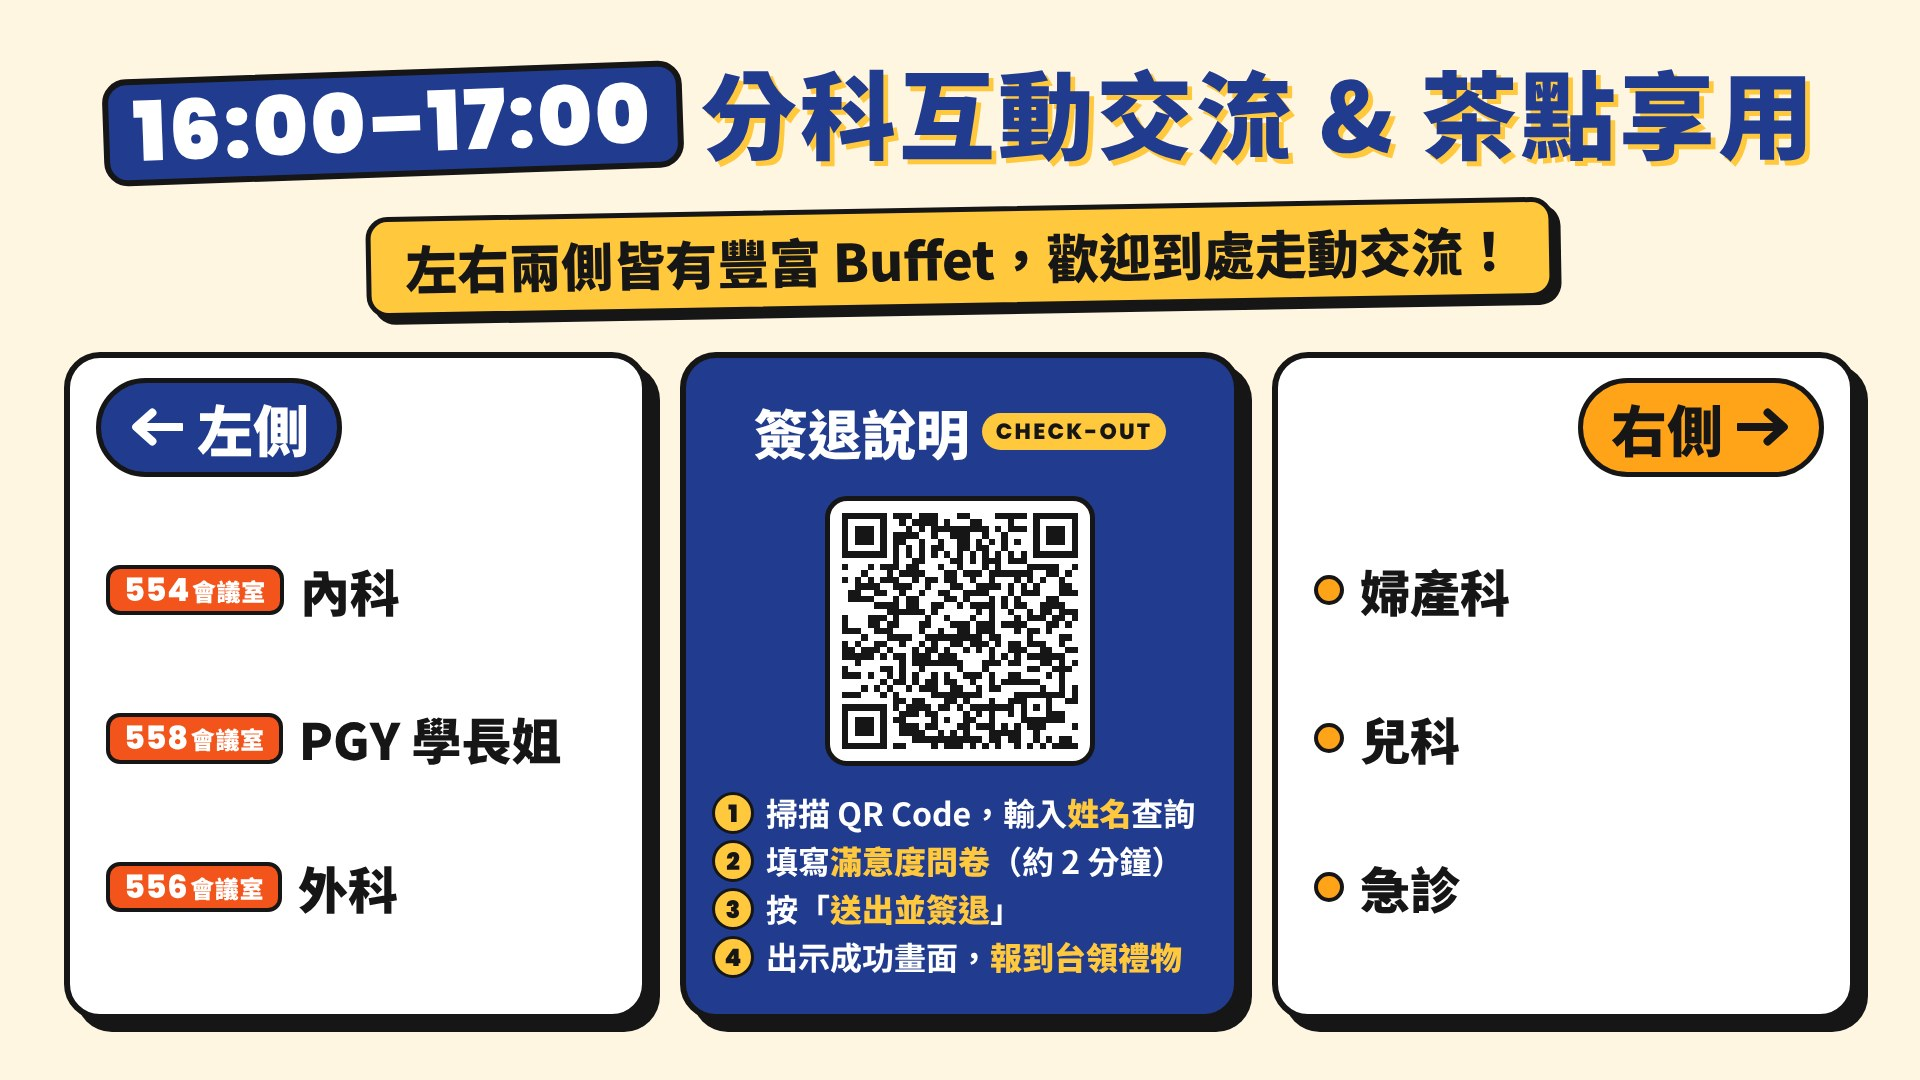
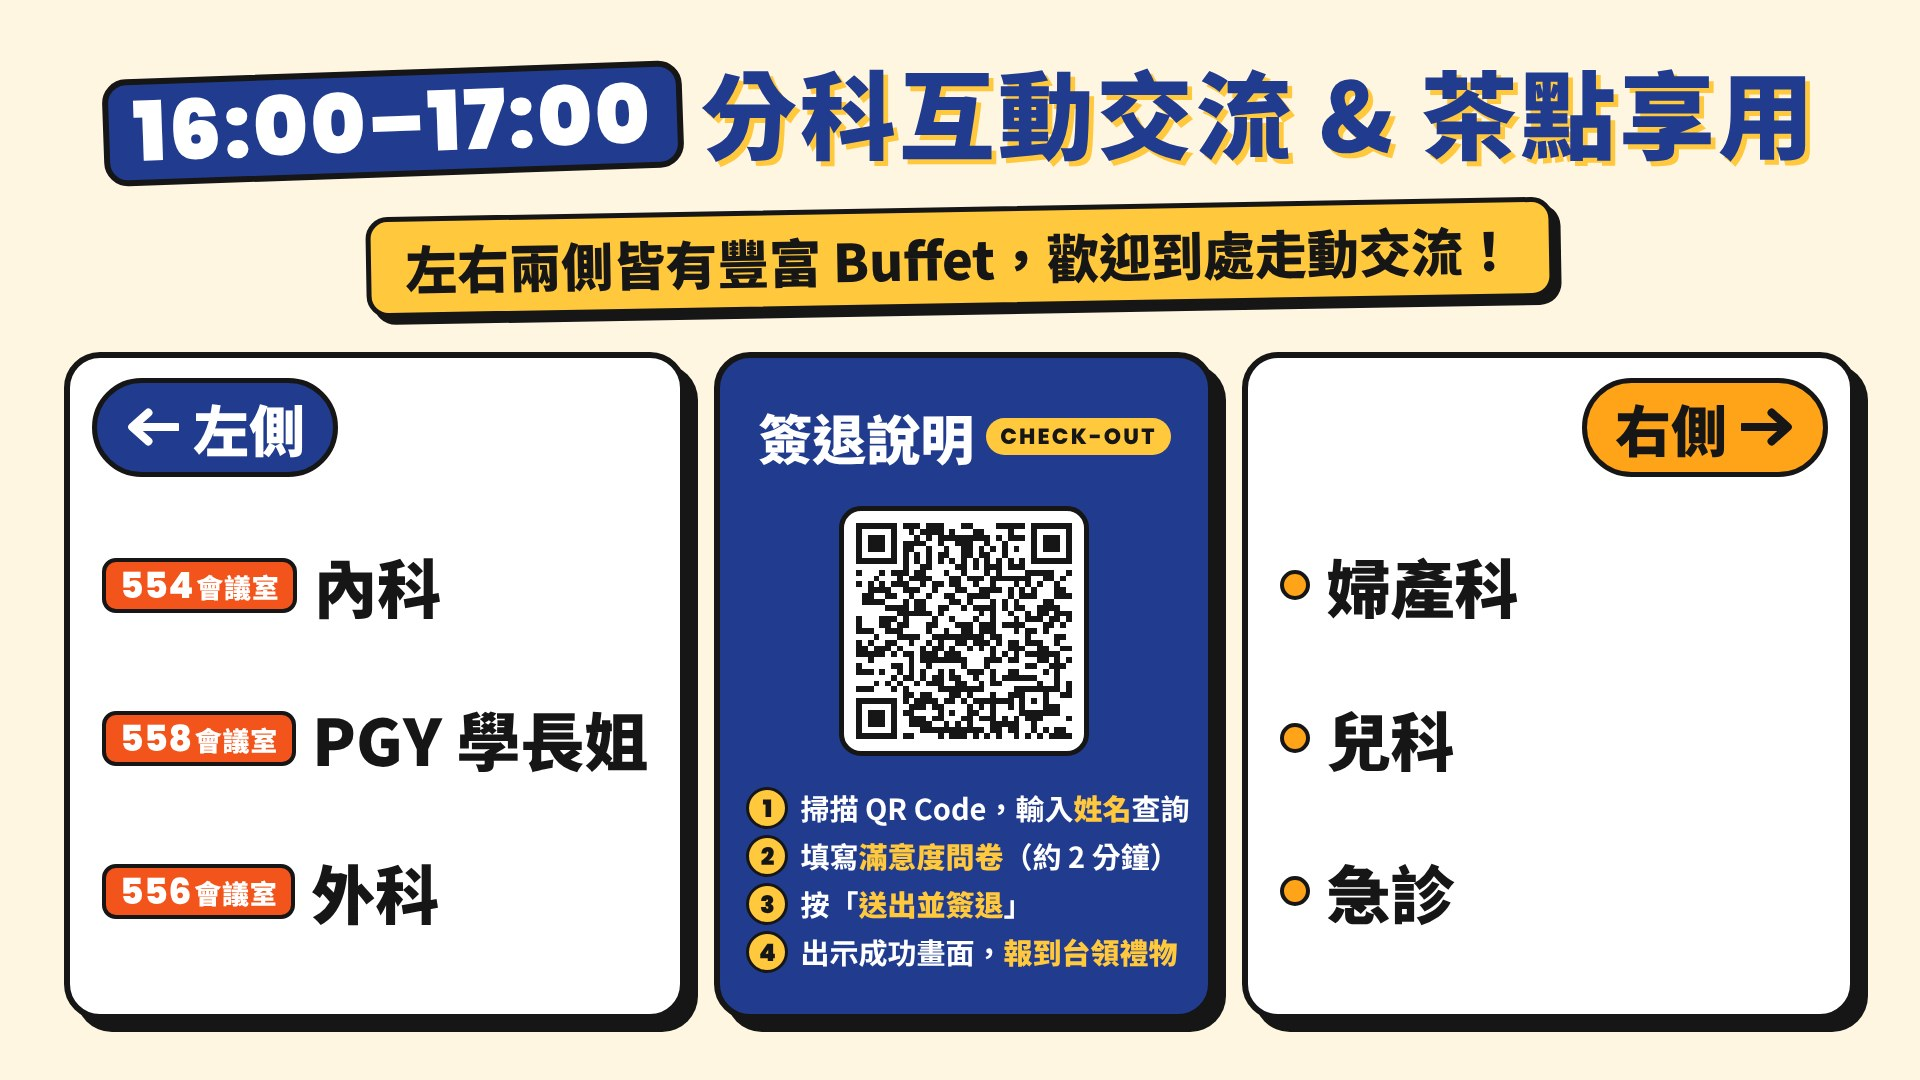
歌詞頁照片：第1張改「歡迎享用」，第3張分科字放大比照第2張
Claude-Session: https://claude.ai/code/session_01HH3Uic7B7GKvdUspcu4Pwt

diff --git a/cmh_musiccc/photos/slides.html b/cmh_musiccc/photos/slides.html
@@ -71,7 +71,7 @@ h1 b{font-family:Poppins;font-weight:900}
 .s3 h1 .time{font-family:Poppins;font-weight:900;color:#fff;background:var(--navy);border:6px solid var(--ink);border-radius:24px;padding:0 24px;text-shadow:none;margin-right:18px;display:inline-block;transform:rotate(-2deg);font-size:.86em}
 .s3 .note{font-size:42px}
 .s3 .sides{gap:30px;padding:0 50px}
-.s3 .side{padding:20px 26px 24px;gap:10px}
+.s3 .side{padding:20px 22px 24px;gap:10px}
 .s3 .side h3{font-size:40px}
 .s3 .room{font-size:50px;gap:16px}
 .s3 .room .no{font-size:28px}
@@ -97,7 +97,7 @@ h1 b{font-family:Poppins;font-weight:900}
 .snack h3{font-size:50px}
 .snack-ill{transform:scale(1.25);margin:30px 0 40px}
 .snack-t{font-size:92px}
-.snack-s{font-size:40px}
+.snack-s{font-size:50px;padding:6px 40px}
 .checkin h2{font-size:58px}
 .checkin h2 small{font-size:26px}
 .s1 .checkin .qrbox{width:300px}
@@ -112,13 +112,13 @@ h1 b{font-family:Poppins;font-weight:900}
 .s2 .room{font-size:66px}
 .s2 .room .no{font-size:38px}
 .s3 h1{font-size:96px}
-.s3 .sides{gap:32px}
-.s3 .room{font-size:50px;white-space:nowrap}
-.s3 .room .no{font-size:32px}
-.s3 .checkout{width:560px;justify-content:space-evenly}
+.s3 .sides{gap:28px}
+.s3 .room{font-size:64px;white-space:nowrap}
+.s3 .room .no{font-size:36px}
+.s3 .checkout{width:500px;justify-content:space-evenly}
 .s3 .checkout h2{font-size:54px}
-.s3 .qrbox{width:270px}
-.s3 .steps li{font-size:32px}
+.s3 .qrbox{width:250px}
+.s3 .steps li{font-size:29px}
 .s3 .steps li i{width:42px;height:42px;font-size:24px}
 </style>
 </head>
@@ -149,7 +149,7 @@ h1 b{font-family:Poppins;font-weight:900}
           <svg class="ill-star" viewBox="0 0 64 64"><path d="M32 4l7 19 21 1-16 13 6 21-18-12-18 12 6-21L4 24l21-1z" fill="#FFC83D" stroke="#161616" stroke-width="3" stroke-linejoin="round"/></svg>
         </div>
         <p class="snack-t">小點心<span>＆</span>茶水</p>
-        <p class="snack-s">請自由取用・稍作休息</p>
+        <p class="snack-s">歡迎享用</p>
       </div>
     </div>
     <div class="checkout checkin">
